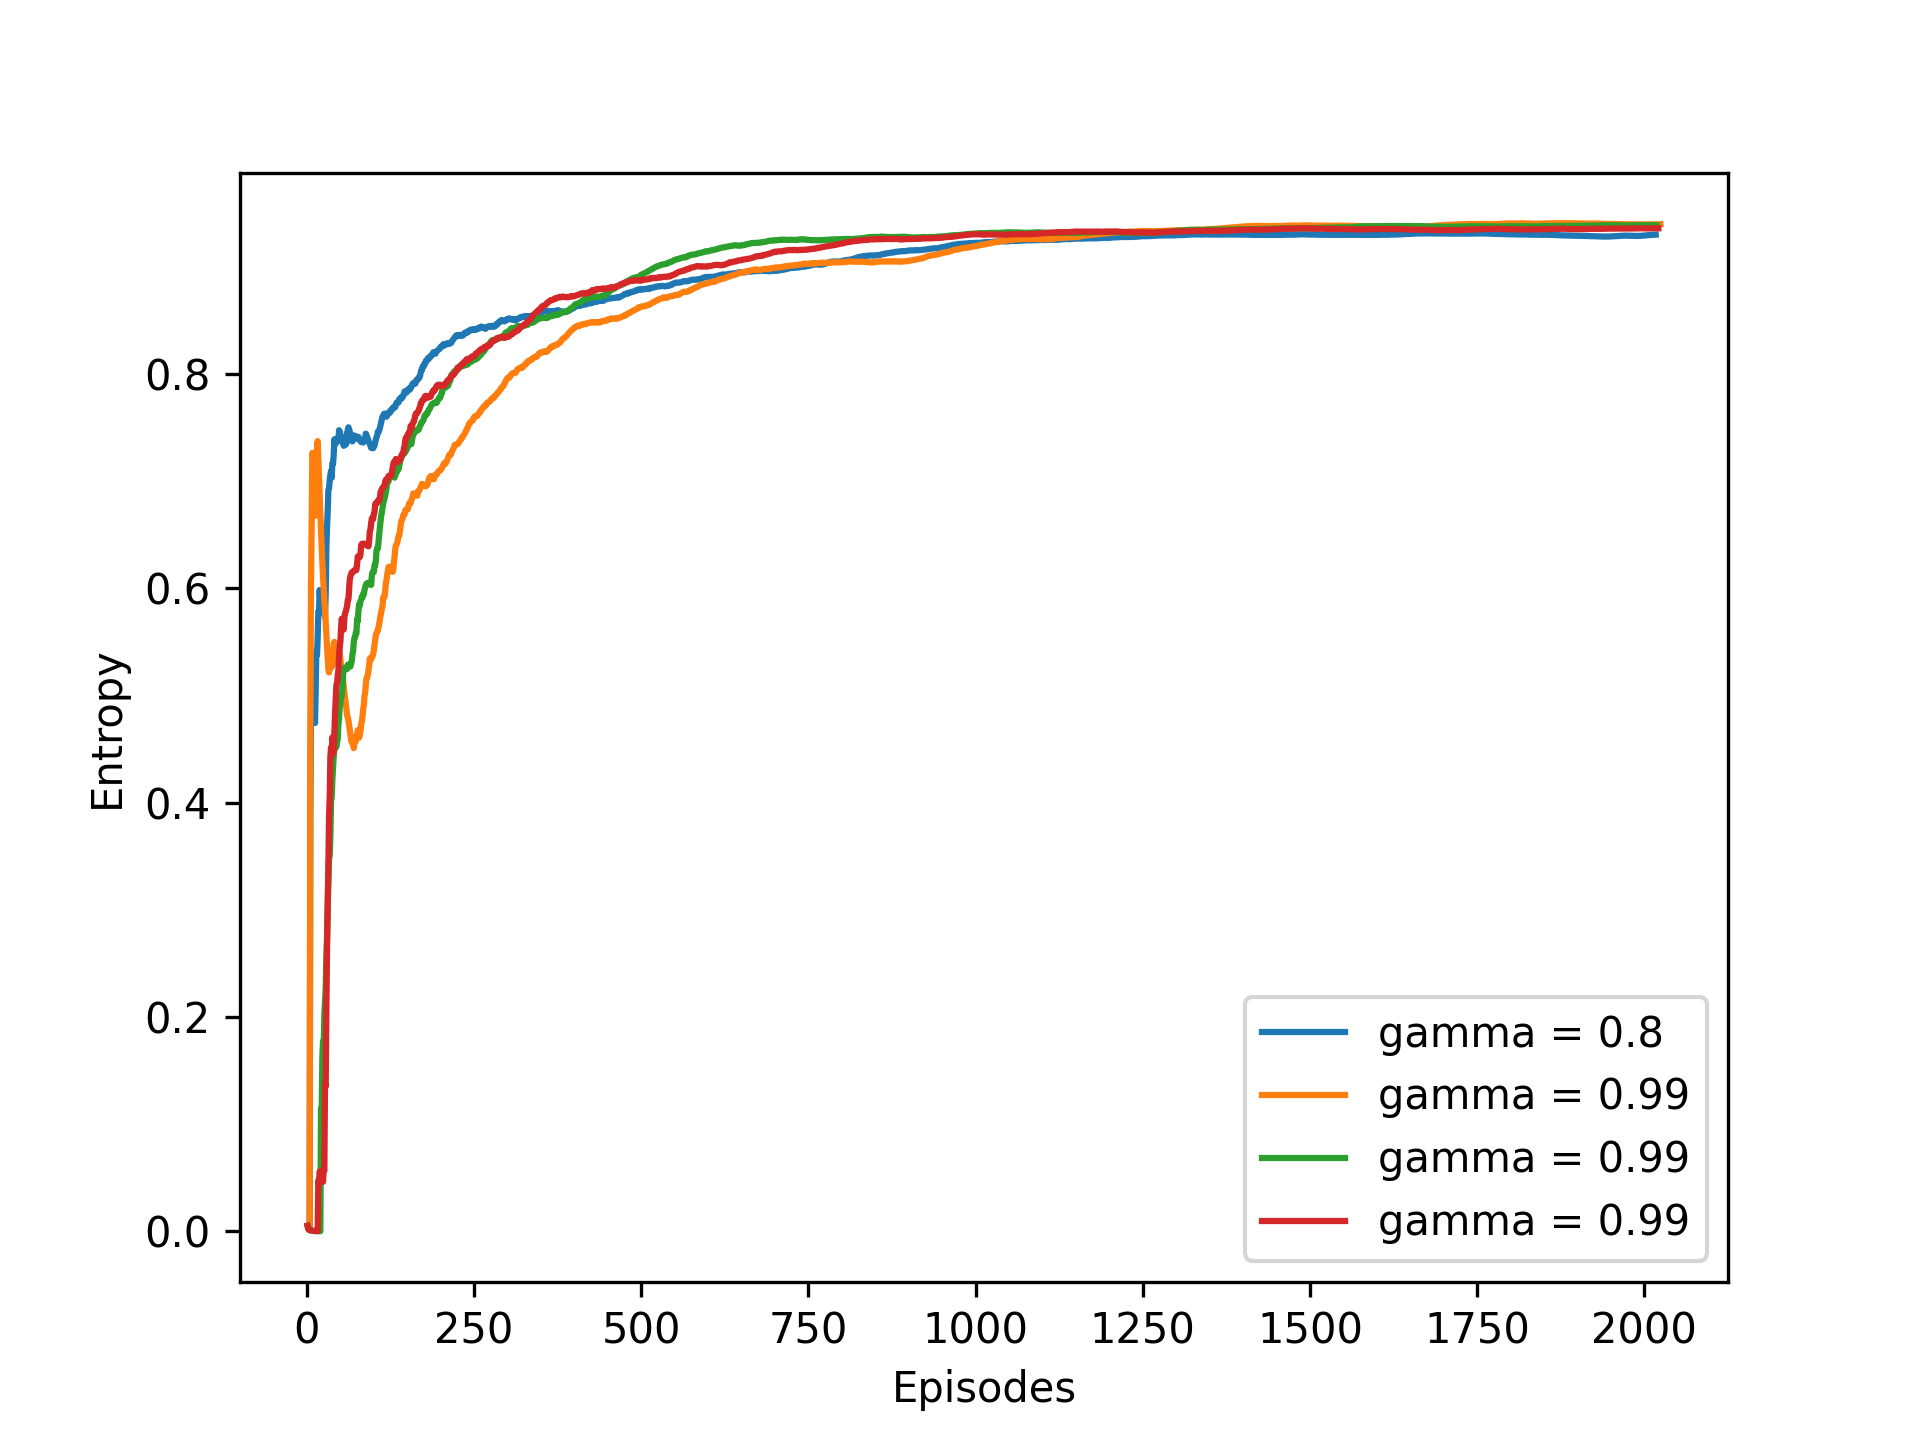
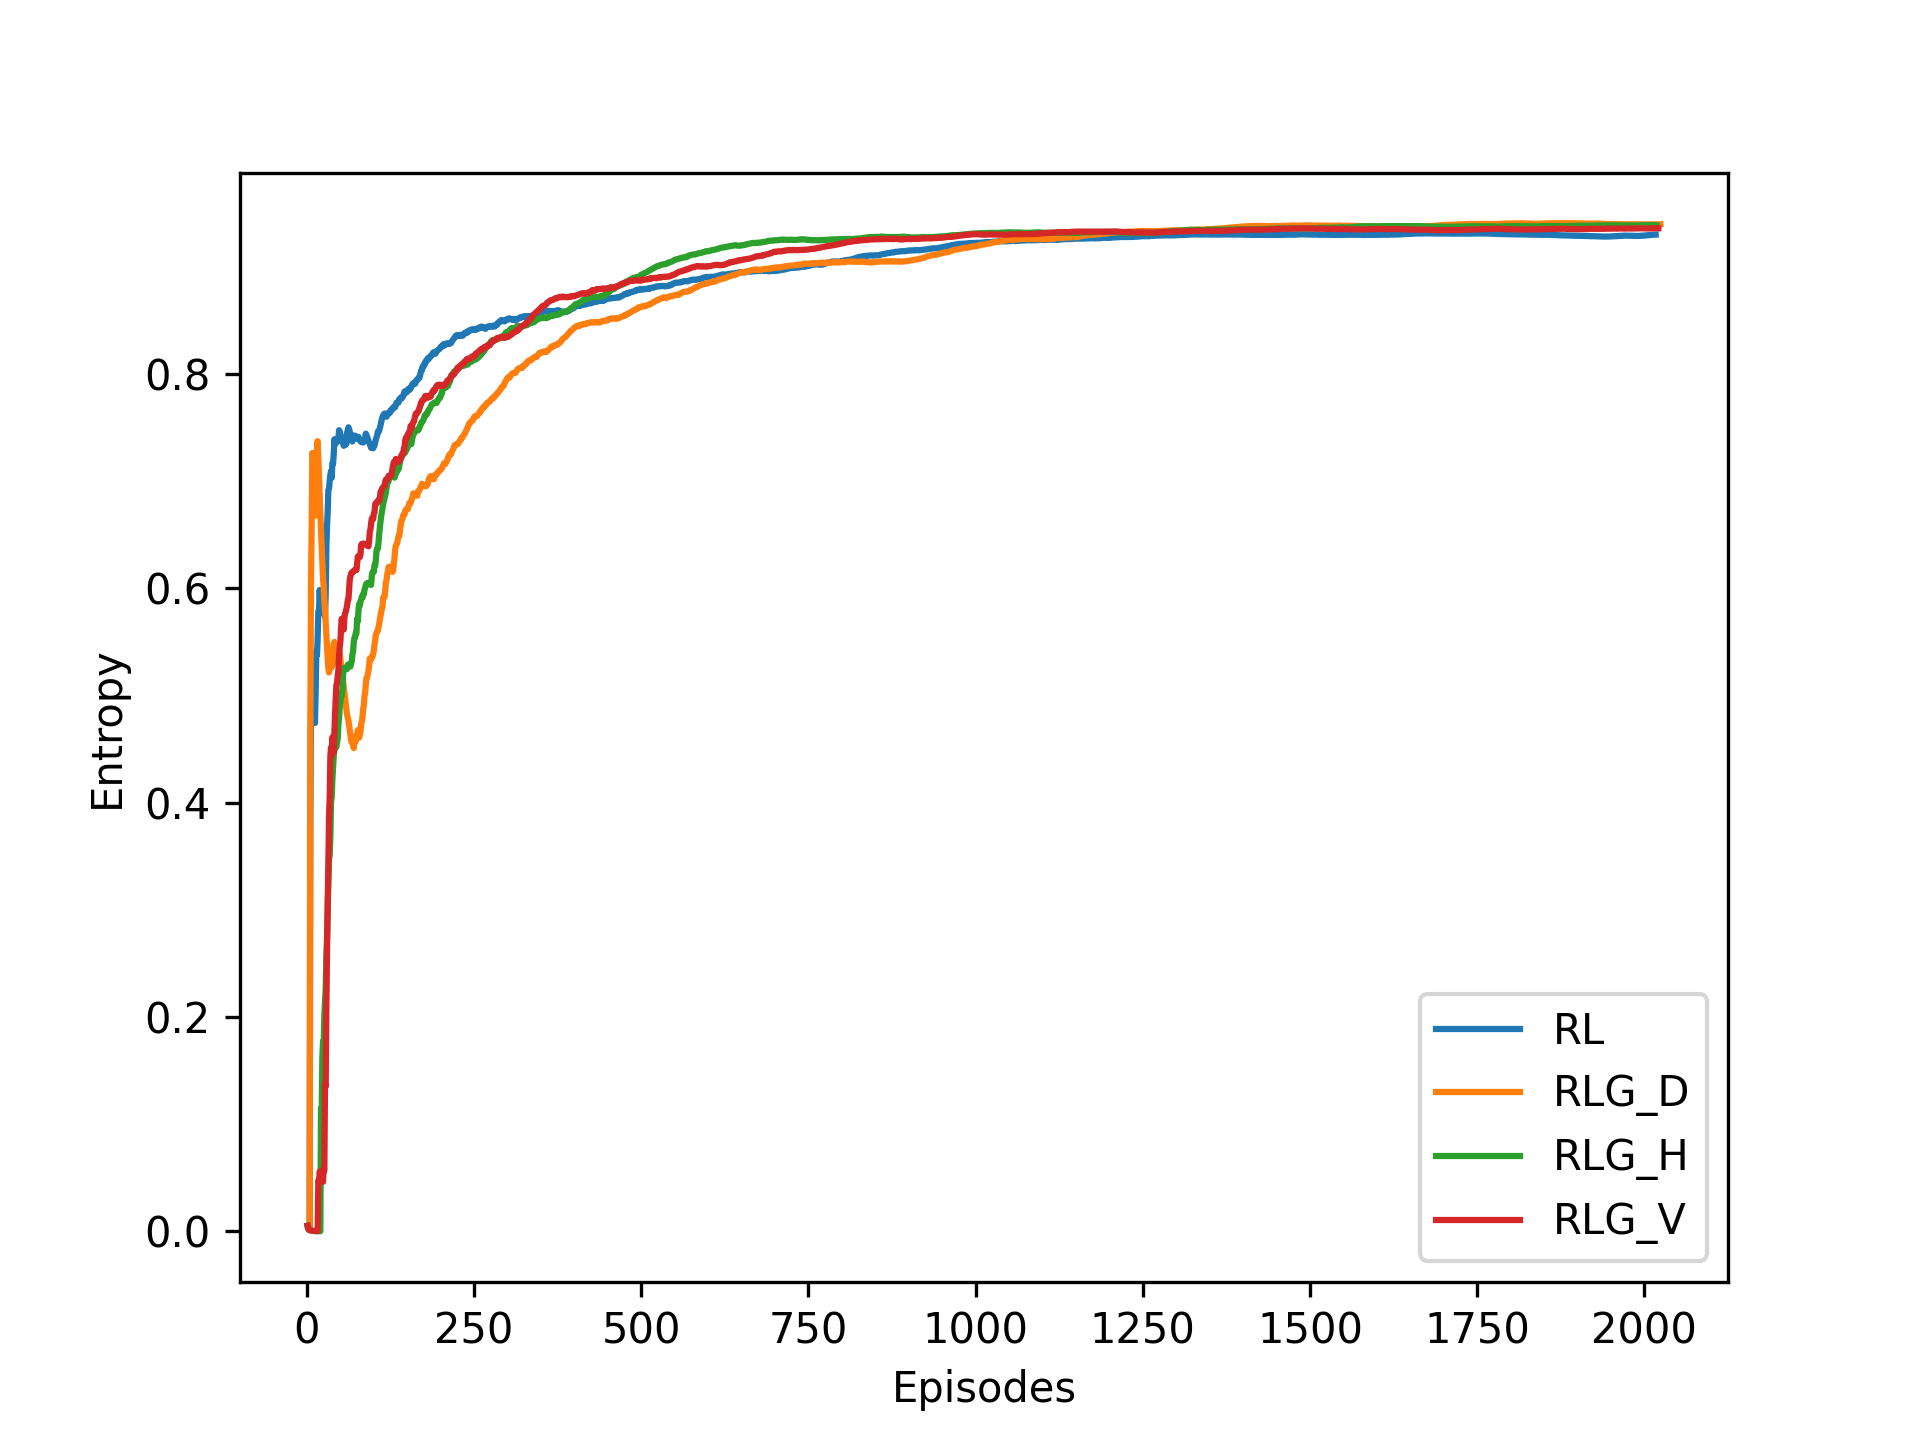
.

Changed region(s): [[0.6562, 0.6875, 0.875, 0.875], [0.6562, 0.75, 0.6875, 0.8125]]

diff --git a/P2/plots.py b/P2/plots.py
@@ -74,52 +74,52 @@ episodes4 = range(1, len(diss4)+1)
 episodes5 = range(1, len(diss5)+1)
 episodes6 = range(1, len(diss6)+1)
 episodes7 = range(1, len(diss7)+1)
-plt.plot(episodes1, diss1, label='gamma = 0.8')
-plt.plot(episodes2, diss2, label='gamma = 0.9')
-plt.plot(episodes3, diss3, label='gamma = 0.99')
-plt.plot(episodes4, diss4, label='gamma = 0.99')
-plt.plot(episodes5, diss5, label='gamma = 0.99')
-plt.plot(episodes6, diss6, label='gamma = 0.99')
-plt.plot(episodes7, diss7, label='gamma = 0.99')
+plt.plot(episodes1, diss1, label='RL')
+plt.plot(episodes2, diss2, label='RLR_D')
+plt.plot(episodes3, diss3, label='RLR_H')
+plt.plot(episodes4, diss4, label='RLR_V')
+plt.plot(episodes5, diss5, label='RLG_D')
+plt.plot(episodes6, diss6, label='RLG_H')
+plt.plot(episodes7, diss7, label='RLG_V')
 plt.legend()
 plt.xlabel('Episodes')
 plt.ylabel('Dissonance')
 plt.savefig('plots/Dissonance.png', dpi=300)
 plt.close()
 
-plt.plot(episodes1, entropy1, label='gamma = 0.8')
-plt.plot(episodes2, entropy2, label='gamma = 0.9')
-plt.plot(episodes3, entropy3, label='gamma = 0.99')
-plt.plot(episodes4, entropy4, label='gamma = 0.99')
-plt.plot(episodes5, entropy5, label='gamma = 0.99')
-plt.plot(episodes6, entropy6, label='gamma = 0.99')
-plt.plot(episodes7, entropy7, label='gamma = 0.99')
+plt.plot(episodes1, entropy1, label='RL')
+plt.plot(episodes2, entropy2, label='RLR_D')
+plt.plot(episodes3, entropy3, label='RLR_H')
+plt.plot(episodes4, entropy4, label='RLR_V')
+plt.plot(episodes5, entropy5, label='RLG_D')
+plt.plot(episodes6, entropy6, label='RLG_H')
+plt.plot(episodes7, entropy7, label='RLG_V')
 plt.legend()
 plt.xlabel('Episodes')
 plt.ylabel('Entropy')
 plt.savefig('plots/Entropy.png', dpi=300)
 plt.close()
 
-plt.plot(episodes1, vacuity1, label='gamma = 0.8')
-plt.plot(episodes2, vacuity2, label='gamma = 0.9')
-plt.plot(episodes3, vacuity3, label='gamma = 0.99')
-plt.plot(episodes4, vacuity4, label='gamma = 0.99')
-plt.plot(episodes5, vacuity5, label='gamma = 0.99')
-plt.plot(episodes6, vacuity6, label='gamma = 0.99')
-plt.plot(episodes7, vacuity7, label='gamma = 0.99')
+plt.plot(episodes1, vacuity1, label='RL')
+plt.plot(episodes2, vacuity2, label='RLR_D')
+plt.plot(episodes3, vacuity3, label='RLR_H')
+plt.plot(episodes4, vacuity4, label='RLR_V')
+plt.plot(episodes5, vacuity5, label='RLG_D')
+plt.plot(episodes6, vacuity6, label='RLG_H')
+plt.plot(episodes7, vacuity7, label='RLG_V')
 plt.legend()
 plt.xlabel('Episodes')
 plt.ylabel('Vacuity')
 plt.savefig('plots/Vacuity.png', dpi=300)
 plt.close()
 
-plt.plot(episodes1, EMA_filter(reward1), label='gamma = 0.8')
-plt.plot(episodes2, EMA_filter(reward2), label='gamma = 0.9')
-plt.plot(episodes3, EMA_filter(reward3), label='gamma = 0.99')
-plt.plot(episodes4, EMA_filter(reward4), label='gamma = 0.99')
-plt.plot(episodes5, EMA_filter(reward5), label='gamma = 0.99')
-plt.plot(episodes6, EMA_filter(reward6), label='gamma = 0.99')
-plt.plot(episodes7, EMA_filter(reward7), label='gamma = 0.99')
+plt.plot(episodes1, EMA_filter(reward1), label='RL')
+plt.plot(episodes2, EMA_filter(reward2), label='RLR_D')
+plt.plot(episodes3, EMA_filter(reward3), label='RLR_H')
+plt.plot(episodes4, EMA_filter(reward4), label='RLR_V')
+plt.plot(episodes5, EMA_filter(reward5), label='RLG_D')
+plt.plot(episodes6, EMA_filter(reward6), label='RLG_H')
+plt.plot(episodes7, EMA_filter(reward7), label='RLG_H')
 plt.legend()
 plt.xlabel('Episodes')
 plt.ylabel('Rewards')
@@ -128,40 +128,40 @@ plt.close()
 
 
 
-plt.plot(episodes1, diss1, label='gamma = 0.8')
-plt.plot(episodes2, diss2, label='gamma = 0.9')
-plt.plot(episodes3, diss3, label='gamma = 0.99')
-plt.plot(episodes4, diss4, label='gamma = 0.99')
+plt.plot(episodes1, diss1, label='RL')
+plt.plot(episodes2, diss2, label='RLR_D')
+plt.plot(episodes3, diss3, label='RLR_H')
+plt.plot(episodes4, diss4, label='RLR_V')
 plt.legend()
 plt.xlabel('Episodes')
 plt.ylabel('Dissonance')
 plt.savefig('plots/Dissonance_RLR.png', dpi=300)
 plt.close()
 
-plt.plot(episodes1, entropy1, label='gamma = 0.8')
-plt.plot(episodes2, entropy2, label='gamma = 0.9')
-plt.plot(episodes3, entropy3, label='gamma = 0.99')
-plt.plot(episodes4, entropy4, label='gamma = 0.99')
+plt.plot(episodes1, entropy1, label='RL')
+plt.plot(episodes2, entropy2, label='RLR_D')
+plt.plot(episodes3, entropy3, label='RLR_H')
+plt.plot(episodes4, entropy4, label='RLR_V')
 plt.legend()
 plt.xlabel('Episodes')
 plt.ylabel('Entropy')
 plt.savefig('plots/Entropy_RLR.png', dpi=300)
 plt.close()
 
-plt.plot(episodes1, vacuity1, label='gamma = 0.8')
-plt.plot(episodes2, vacuity2, label='gamma = 0.9')
-plt.plot(episodes3, vacuity3, label='gamma = 0.99')
-plt.plot(episodes4, vacuity4, label='gamma = 0.99')
+plt.plot(episodes1, vacuity1, label='RL')
+plt.plot(episodes2, vacuity2, label='RLR_D')
+plt.plot(episodes3, vacuity3, label='RLR_H')
+plt.plot(episodes4, vacuity4, label='RLR_V')
 plt.legend()
 plt.xlabel('Episodes')
 plt.ylabel('Vacuity')
 plt.savefig('plots/Vacuity_RLR.png', dpi=300)
 plt.close()
 
-plt.plot(episodes1, EMA_filter(reward1), label='gamma = 0.8')
-plt.plot(episodes2, EMA_filter(reward2), label='gamma = 0.9')
-plt.plot(episodes3, EMA_filter(reward3), label='gamma = 0.99')
-plt.plot(episodes4, EMA_filter(reward4), label='gamma = 0.99')
+plt.plot(episodes1, EMA_filter(reward1), label='RL')
+plt.plot(episodes2, EMA_filter(reward2), label='RLR_D')
+plt.plot(episodes3, EMA_filter(reward3), label='RLR_H')
+plt.plot(episodes4, EMA_filter(reward4), label='RLR_V')
 plt.legend()
 plt.xlabel('Episodes')
 plt.ylabel('Rewards')
@@ -172,40 +172,40 @@ plt.close()
 
 
 
-plt.plot(episodes1, diss1, label='gamma = 0.8')
-plt.plot(episodes5, diss5, label='gamma = 0.99')
-plt.plot(episodes6, diss6, label='gamma = 0.99')
-plt.plot(episodes7, diss7, label='gamma = 0.99')
+plt.plot(episodes1, diss1, label='RL')
+plt.plot(episodes5, diss5, label='RLG_D')
+plt.plot(episodes6, diss6, label='RLG_H')
+plt.plot(episodes7, diss7, label='RLG_V')
 plt.legend()
 plt.xlabel('Episodes')
 plt.ylabel('Dissonance')
 plt.savefig('plots/Dissonance_RLG.png', dpi=300)
 plt.close()
 
-plt.plot(episodes1, entropy1, label='gamma = 0.8')
-plt.plot(episodes5, entropy5, label='gamma = 0.99')
-plt.plot(episodes6, entropy6, label='gamma = 0.99')
-plt.plot(episodes7, entropy7, label='gamma = 0.99')
+plt.plot(episodes1, entropy1, label='RL')
+plt.plot(episodes5, entropy5, label='RLG_D')
+plt.plot(episodes6, entropy6, label='RLG_H')
+plt.plot(episodes7, entropy7, label='RLG_V')
 plt.legend()
 plt.xlabel('Episodes')
 plt.ylabel('Entropy')
 plt.savefig('plots/Entropy_RLG.png', dpi=300)
 plt.close()
 
-plt.plot(episodes1, vacuity1, label='gamma = 0.8')
-plt.plot(episodes5, vacuity5, label='gamma = 0.99')
-plt.plot(episodes6, vacuity6, label='gamma = 0.99')
-plt.plot(episodes7, vacuity7, label='gamma = 0.99')
+plt.plot(episodes1, vacuity1, label='RL')
+plt.plot(episodes5, vacuity5, label='RLG_D')
+plt.plot(episodes6, vacuity6, label='RLG_H')
+plt.plot(episodes7, vacuity7, label='RLG_V')
 plt.legend()
 plt.xlabel('Episodes')
 plt.ylabel('Vacuity')
 plt.savefig('plots/Vacuity_RLG.png', dpi=300)
 plt.close()
 
-plt.plot(episodes1, EMA_filter(reward1), label='gamma = 0.8')
-plt.plot(episodes5, EMA_filter(reward5), label='gamma = 0.99')
-plt.plot(episodes6, EMA_filter(reward6), label='gamma = 0.99')
-plt.plot(episodes7, EMA_filter(reward7), label='gamma = 0.99')
+plt.plot(episodes1, EMA_filter(reward1), label='RL')
+plt.plot(episodes5, EMA_filter(reward5), label='RLG_D')
+plt.plot(episodes6, EMA_filter(reward6), label='RLG_H')
+plt.plot(episodes7, EMA_filter(reward7), label='RLG_V')
 plt.legend()
 plt.xlabel('Episodes')
 plt.ylabel('Rewards')
